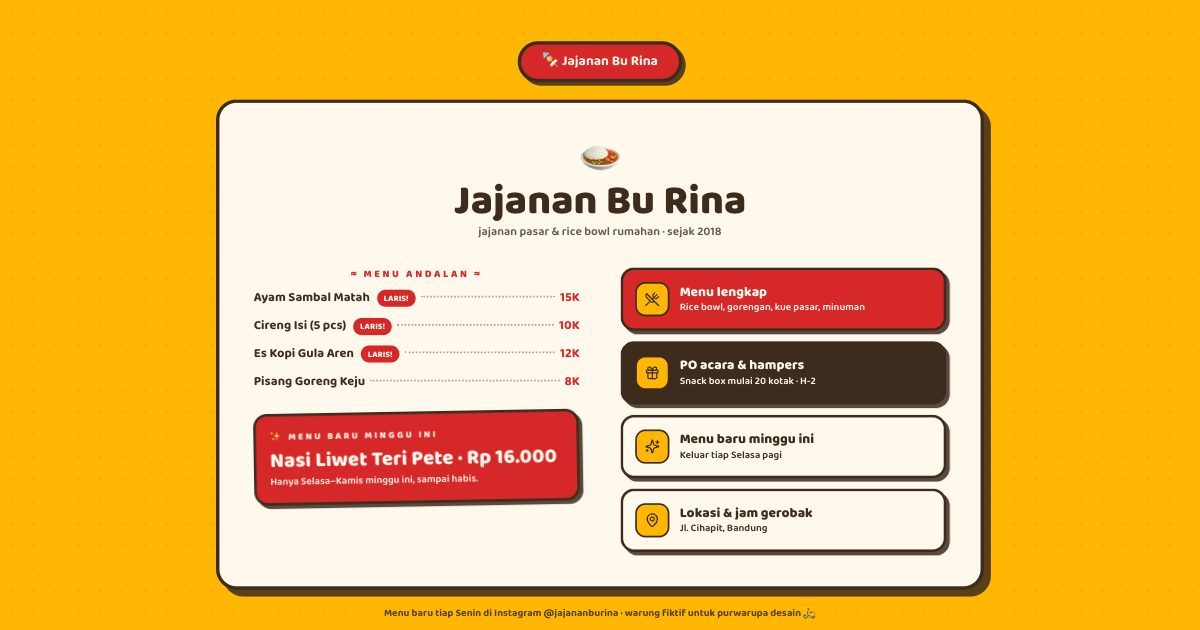
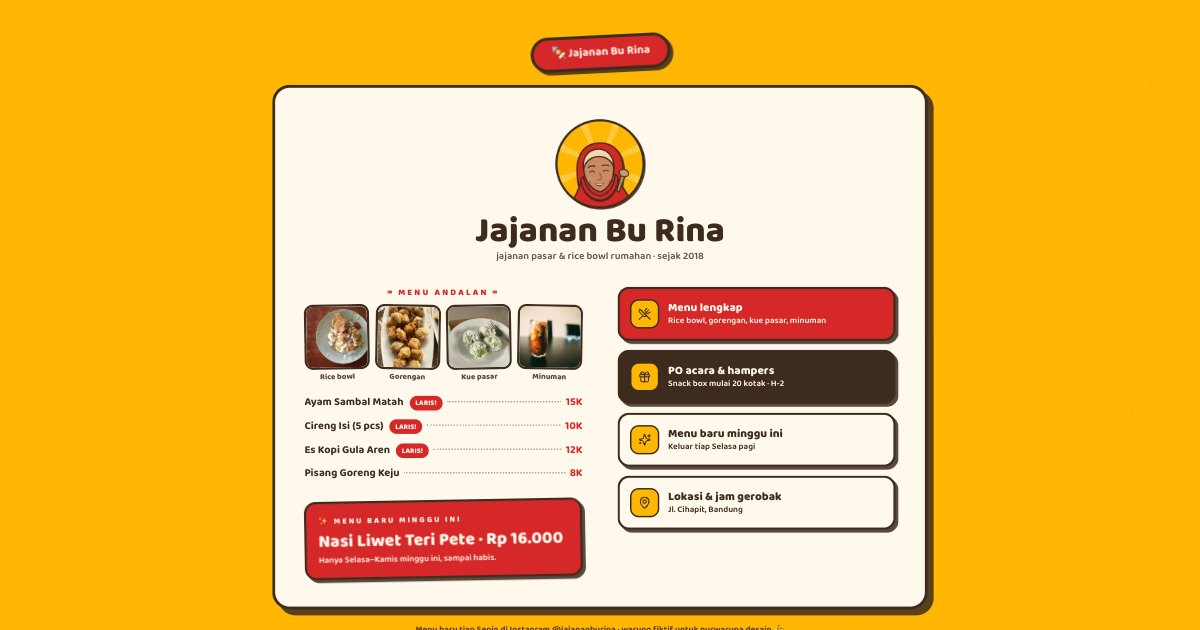
Tambah ilustrasi Bu Rina dan foto jajanan CC0 di papan menu
- Emoji nasi di kepala papan diganti lencana ilustrasi Bu Rina (kerudung
  cabe, tersenyum, memanggul centong); tokoh fiktif
- Menu andalan diawali deret empat foto jajanan; tiap kategori /menu punya
  spanduk foto 5:2 (rice bowl, pisang goreng, dadar gulung, es kopi)
- Foto CC0 Wikimedia Commons (lisensi dicek lewat API) dicatat di
  public/images/SUMBER.md; gambar statis lewat scripts/static-images.mjs
  dengan <img srcset>; og.jpg diperbarui (status papan netral)

diff --git a/app/page.js b/app/page.js
@@ -1,6 +1,7 @@
 import Link from 'next/link';
 import { Gift, MapPin, Sparkles, UtensilsCrossed } from 'lucide-react';
-import { BARU, LINKS, MENU, WARUNG, rb, rp } from '@/lib/jajan';
+import { BARU, FOTO, FOTO_BERANDA, LINKS, MENU, WARUNG, rb, rp } from '@/lib/jajan';
+import Gambar from './components/Gambar';
 import PapanBuka from './components/PapanBuka';
 
 const IKON = { menu: UtensilsCrossed, kado: Gift, baru: Sparkles, lokasi: MapPin };
@@ -17,13 +18,21 @@ export default function Home() {
         {/* Papan menu: di layar lebar melebar jadi papan mendatar, menu kiri dan tautan kanan */}
         <div className="naik papan mt-5 rounded-3xl p-6 md:p-8 lg:grid lg:grid-cols-2 lg:gap-x-12 lg:p-10" style={{ animationDelay: '0.06s' }}>
           <header className="text-center lg:col-span-2">
-            <p className="text-4xl lg:text-5xl" aria-hidden="true">🍛</p>
+            <Gambar src="/images/bu-rina.webp" alt="Ilustrasi Bu Rina berkerudung merah, tersenyum lebar sambil memanggul centong" width={104} height={104} asli={512} loading="eager" className="mx-auto h-[6.5rem] w-[6.5rem] lg:h-32 lg:w-32" />
             <h1 className="mt-1 font-display text-3xl font-extrabold lg:text-5xl">{WARUNG.nama}</h1>
             <p className="text-sm font-semibold text-kecap/80">jajanan pasar & rice bowl rumahan · sejak {WARUNG.sejak}</p>
           </header>
 
           <section className="mt-6 lg:mt-8" aria-labelledby="andalan">
             <h2 id="andalan" className="mb-2 text-center text-xs font-extrabold uppercase tracking-[0.25em] text-cabe">≈ Menu Andalan ≈</h2>
+            <ul className="mb-4 grid grid-cols-4 gap-2">
+              {FOTO_BERANDA.map((f, i) => (
+                <li key={f} className={i % 2 ? 'rotate-1' : '-rotate-1'}>
+                  <Gambar src={`/images/menu/${f}.webp`} alt={FOTO[f].alt} width={640} height={640} asli={640} sizes="(min-width: 1024px) 96px, calc((100vw - 120px) / 4)" className="aspect-square w-full rounded-xl border-[3px] border-kecap object-cover" />
+                  <p className="mt-1 text-center text-[11px] font-extrabold leading-tight text-kecap/85">{FOTO[f].label}</p>
+                </li>
+              ))}
+            </ul>
             <ul className="space-y-2.5">
               {ANDALAN.map(([nama, harga, laris], i) => (
                 <li key={nama} className="geser-masuk leaders text-[15px] font-bold" style={{ animationDelay: `${0.18 + i * 0.05}s` }}>

diff --git a/lib/jajan.js b/lib/jajan.js
@@ -15,11 +15,24 @@ export const LINKS = [
   { ikon: 'lokasi', label: 'Lokasi & jam gerobak', sub: 'Jl. Cihapit, Bandung', href: '/menu#lokasi', warna: 'bg-santan' },
 ];
 
+// Foto CC0 (Wikimedia Commons) untuk deret beranda (persegi) dan spanduk kategori menu (<nama>-lebar.webp, 5:2);
+// sumber di public/images/SUMBER.md.
+export const FOTO = {
+  ricebowl: { label: 'Rice bowl', alt: 'Nasi putih dengan ayam berbumbu dan sambal di piring' },
+  tahu: { label: 'Gorengan', alt: 'Tahu goreng tepung renyah di piring panjang' },
+  pisang: { label: 'Pisang goreng', alt: 'Pisang goreng hangat di piring putih' },
+  klepon: { label: 'Kue pasar', alt: 'Klepon hijau bertabur kelapa parut' },
+  dadar: { label: 'Dadar gulung', alt: 'Dadar gulung hijau berisi kelapa di piring merah muda' },
+  eskopi: { label: 'Minuman', alt: 'Es kopi susu dalam gelas tinggi' },
+  eskopi2: { label: 'Minuman', alt: 'Dua gelas es kopi berisi es batu di bangku luar' },
+};
+export const FOTO_BERANDA = ['ricebowl', 'tahu', 'klepon', 'eskopi'];
+
 export const MENU = [
-  { kat: 'Rice bowl', item: [['Ayam Sambal Matah', 15000, true], ['Cumi Cabai Garam', 18000], ['Tahu Telur Petis', 13000], ['Jamur Kecap Pedas (vegetarian)', 12000]] },
-  { kat: 'Gorengan & cemilan', item: [['Cireng Isi (5 pcs)', 10000, true], ['Pisang Goreng Keju', 8000], ['Tahu Isi Sayur (4 pcs)', 8000], ['Bakwan Jagung (4 pcs)', 8000]] },
-  { kat: 'Kue pasar', item: [['Kue Lumpur (3 pcs)', 9000], ['Dadar Gulung', 4000], ['Klepon (5 pcs)', 7000]] },
-  { kat: 'Minuman', item: [['Es Kopi Gula Aren', 12000, true], ['Es Teh Serai', 6000], ['Wedang Jahe', 7000]] },
+  { kat: 'Rice bowl', foto: 'ricebowl', item: [['Ayam Sambal Matah', 15000, true], ['Cumi Cabai Garam', 18000], ['Tahu Telur Petis', 13000], ['Jamur Kecap Pedas (vegetarian)', 12000]] },
+  { kat: 'Gorengan & cemilan', foto: 'pisang', item: [['Cireng Isi (5 pcs)', 10000, true], ['Pisang Goreng Keju', 8000], ['Tahu Isi Sayur (4 pcs)', 8000], ['Bakwan Jagung (4 pcs)', 8000]] },
+  { kat: 'Kue pasar', foto: 'dadar', item: [['Kue Lumpur (3 pcs)', 9000], ['Dadar Gulung', 4000], ['Klepon (5 pcs)', 7000]] },
+  { kat: 'Minuman', foto: 'eskopi2', item: [['Es Kopi Gula Aren', 12000, true], ['Es Teh Serai', 6000], ['Wedang Jahe', 7000]] },
 ];
 
 export const BARU = { nama: 'Nasi Liwet Teri Pete', harga: 16000, ket: 'Hanya Selasa–Kamis minggu ini, sampai habis.' };

diff --git a/app/components/Gambar.jsx b/app/components/Gambar.jsx
@@ -1,0 +1,33 @@
+import manifest from '@/image-manifest.json';
+
+// Gambar statis tanpa JavaScript klien: <img> biasa dengan srcset varian WebP buatan
+// scripts/static-images.mjs (peta hash di image-manifest.json, sama seperti image-loader.js).
+// width/height = ukuran tampil (px CSS); tanpa `sizes` dipakai deskriptor 1x/2x,
+// dengan `sizes` dipakai deskriptor lebar sampai `asli` (lebar berkas sumber).
+const LEBAR = [64, 128, 256, 384, 640, 828, 1080, 1280, 1920];
+const varian = (src, w) => {
+  const hash = manifest[src];
+  return hash ? `/_img${src.replace(/\.(png|jpe?g|webp)$/i, '')}.${hash}-${w}.webp` : src;
+};
+const naik = (w) => LEBAR.find((x) => x >= w) ?? LEBAR[LEBAR.length - 1];
+
+export default function Gambar({ src, alt, width, height, sizes, asli = 1920, priority = false, ...rest }) {
+  const srcSet = sizes
+    ? LEBAR.filter((w) => w <= naik(asli)).map((w) => `${varian(src, w)} ${w}w`).join(', ')
+    : `${varian(src, naik(width))} 1x, ${varian(src, naik(width * 2))} 2x`;
+  return (
+    // eslint-disable-next-line @next/next/no-img-element
+    <img
+      src={varian(src, naik(sizes ? Math.min(asli, 1080) : width * 2))}
+      srcSet={srcSet}
+      sizes={sizes}
+      alt={alt}
+      width={width}
+      height={height}
+      loading={priority ? 'eager' : 'lazy'}
+      fetchPriority={priority ? 'high' : undefined}
+      decoding="async"
+      {...rest}
+    />
+  );
+}

diff --git a/app/menu/page.js b/app/menu/page.js
@@ -1,5 +1,6 @@
 import Link from 'next/link';
-import { BARU, MENU, SITE, WARUNG, rb, rp } from '@/lib/jajan';
+import { BARU, FOTO, MENU, SITE, WARUNG, rb, rp } from '@/lib/jajan';
+import Gambar from '../components/Gambar';
 import Kembali from '../components/Kembali';
 
 export const metadata = {
@@ -20,6 +21,7 @@ export default function Menu() {
           {MENU.map((k) => (
             <section key={k.kat} aria-labelledby={`k-${k.kat}`} className="mt-7">
               <h2 id={`k-${k.kat}`} className="mb-2 text-center text-xs font-extrabold uppercase tracking-[0.25em] text-cabe">≈ {k.kat} ≈</h2>
+              <Gambar src={`/images/menu/${k.foto}-lebar.webp`} alt={FOTO[k.foto].alt} width={1000} height={400} asli={1000} sizes="(min-width: 640px) 416px, calc(100vw - 88px)" className="mb-3 aspect-[5/2] w-full rounded-2xl border-[3px] border-kecap object-cover" />
               <ul className="space-y-2.5">
                 {k.item.map(([nama, harga, laris]) => (
                   <li key={nama} className="leaders text-[15px] font-bold">

diff --git a/image-loader.js b/image-loader.js
@@ -1,0 +1,15 @@
+// Loader next/image untuk gambar statis: varian WebP di public/_img/ buatan skrip static-images (lihat
+// image-manifest.json). Tidak memakai Image Optimization Vercel, jadi tidak terikat kuota bulanan.
+// Lebar yang diminta selalu salah satu dari deviceSizes/imageSizes di next.config (= WIDTHS di bawah).
+// Gambar di luar manifest (SVG, GIF, URL luar, impor statis) dikembalikan apa adanya.
+import manifest from './image-manifest.json'
+
+const WIDTHS = [64,128,256,384,640,828,1080,1280,1920]
+
+export default function staticImageLoader({ src, width }) {
+  const hash = manifest[src]
+  if (!hash) return src
+  const w = WIDTHS.find((x) => x >= width) ?? WIDTHS[WIDTHS.length - 1]
+  const stem = src.slice("".length).replace(/\.(png|jpe?g|webp)$/i, '')
+  return `/_img${stem}.${hash}-${w}.webp`
+}

diff --git a/public/images/SUMBER.md b/public/images/SUMBER.md
@@ -1,0 +1,16 @@
+# Sumber gambar
+
+Foto jajanan berlisensi CC0 dari Wikimedia Commons (lisensi diperiksa lewat API Commons); tidak wajib atribusi,
+tetapi dicatat supaya bisa dilacak. Dipotong persegi (beranda) atau 5:2 (spanduk menu, berakhiran -lebar) dan diberi
+nada hangat ringan. Warung Jajanan Bu Rina fiktif: foto hanya ilustrasi jenis jajanan, bukan produk sungguhan.
+
+| Berkas | Judul | Pembuat | Sumber | Lisensi |
+| --- | --- | --- | --- | --- |
+| menu/ricebowl.webp, menu/ricebowl-lebar.webp | Nasi putih dengan ayam percik dan sambal 20240225 132552.jpg | Wiki Farazi | https://commons.wikimedia.org/wiki/File:Nasi_putih_dengan_ayam_percik_dan_sambal_20240225_132552.jpg | CC0 |
+| menu/tahu.webp | Tahu Goreng Tepung.jpg | Chenmay08 | https://commons.wikimedia.org/wiki/File:Tahu_Goreng_Tepung.jpg | CC0 |
+| menu/pisang-lebar.webp | Pisang Goreng Hangat.jpg | AndriFB | https://commons.wikimedia.org/wiki/File:Pisang_Goreng_Hangat.jpg | CC0 |
+| menu/klepon.webp | Klepon Sederhana.jpg | Dwisuchia | https://commons.wikimedia.org/wiki/File:Klepon_Sederhana.jpg | CC0 |
+| menu/dadar-lebar.webp | Dadar gulung aesthetic.jpg | Aghnisans | https://commons.wikimedia.org/wiki/File:Dadar_gulung_aesthetic.jpg | CC0 |
+| menu/eskopi.webp | The Coffee life (Unsplash).jpg | Linda Xu rhindaxu | https://commons.wikimedia.org/wiki/File:The_Coffee_life_(Unsplash).jpg | CC0 |
+| menu/eskopi2-lebar.webp | Iced coffee.jpg | Kim Dae Jeung | https://commons.wikimedia.org/wiki/File:Iced_coffee.jpg | CC0 |
+| bu-rina.webp | Ilustrasi Bu Rina (tokoh fiktif) | Ilustrasi asli PintuWeb | — | Milik PintuWeb |
